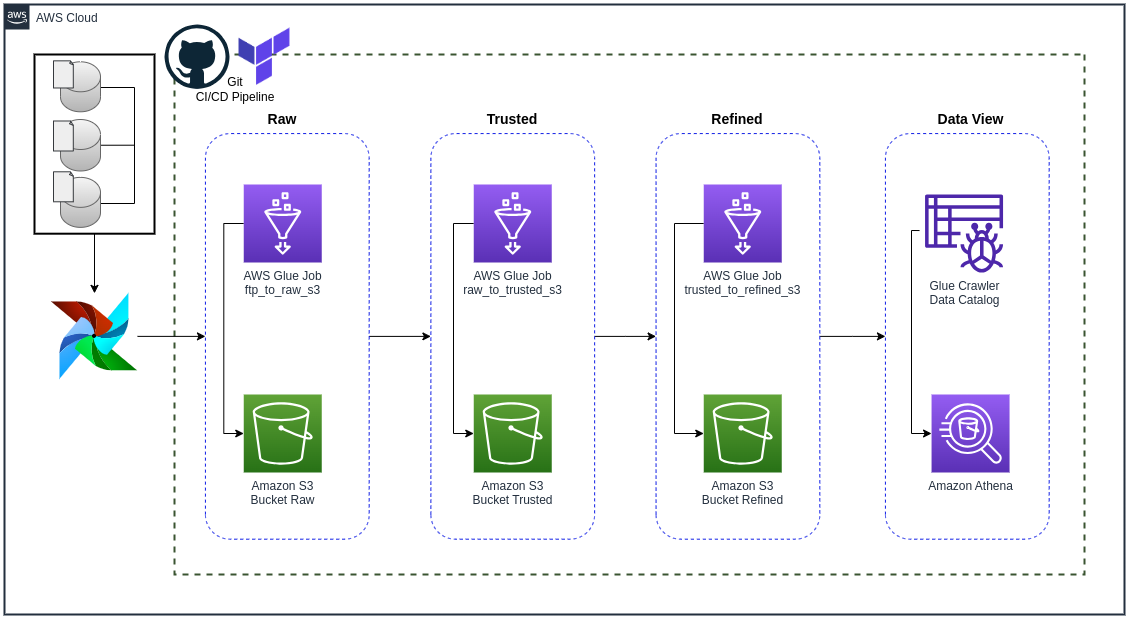
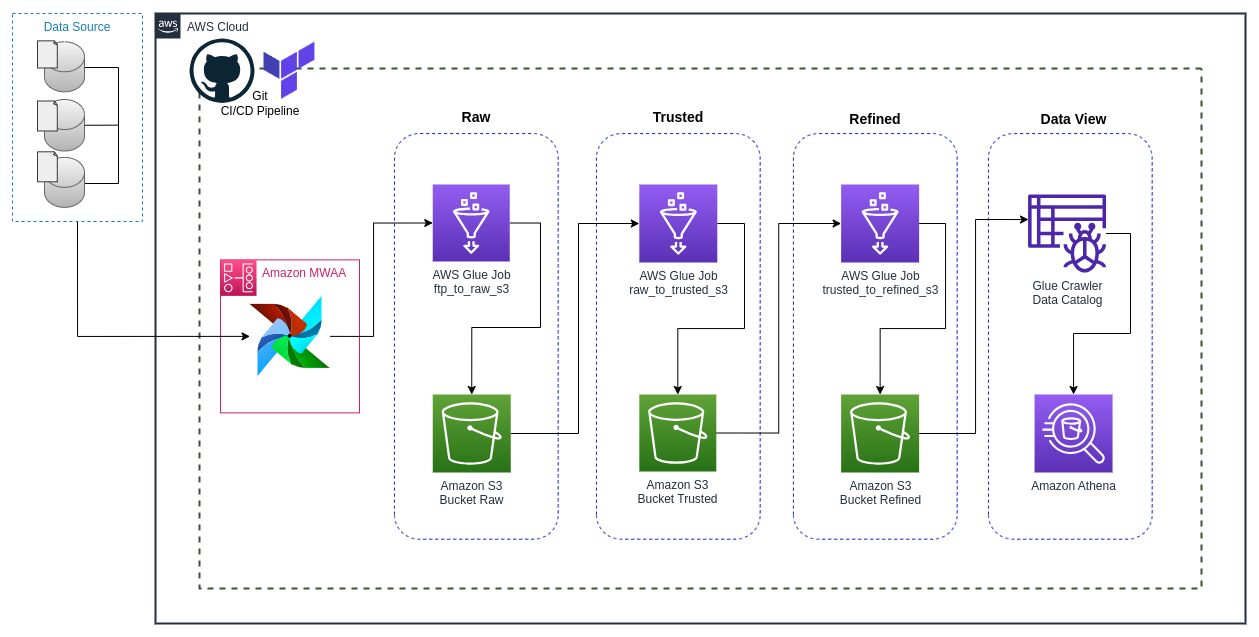
Primeira implementação intregração Airflow

diff --git a/airflow/dags/dag_ftp_to_raw.py b/airflow/dags/dag_ftp_to_raw.py
@@ -1,0 +1,7 @@
+# from airflow.providers.amazon.aws.operators.glue import GlueJobOperator
+
+# # Cria uma tarefa para chamar o Glue Job chamado 'extract_data'
+# extract_data_task = GlueJobOperator(
+#     job_name='extract_data',
+#     script_location='scripts/extract_data.py',
+# )

diff --git a/airflow/dags/dag_raw_to_trusted.py b/airflow/dags/dag_raw_to_trusted.py
@@ -1,0 +1,7 @@
+# from airflow.providers.amazon.aws.operators.glue import GlueJobOperator
+
+# # Cria uma tarefa para chamar o Glue Job chamado 'extract_data'
+# extract_data_task = GlueJobOperator(
+#     job_name='extract_data',
+#     script_location='scripts/extract_data.py',
+# )

diff --git a/airflow/dags/dag_trusted_to_refined.py b/airflow/dags/dag_trusted_to_refined.py
@@ -1,0 +1,7 @@
+# from airflow.providers.amazon.aws.operators.glue import GlueJobOperator
+
+# # Cria uma tarefa para chamar o Glue Job chamado 'extract_data'
+# extract_data_task = GlueJobOperator(
+#     job_name='extract_data',
+#     script_location='scripts/extract_data.py',
+# )
